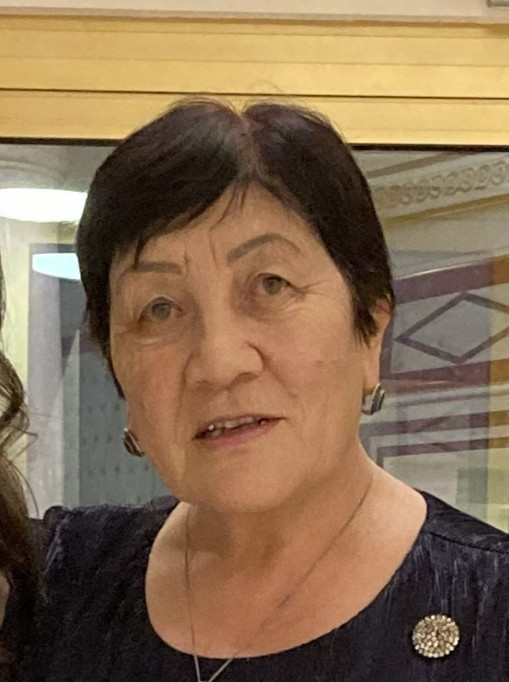
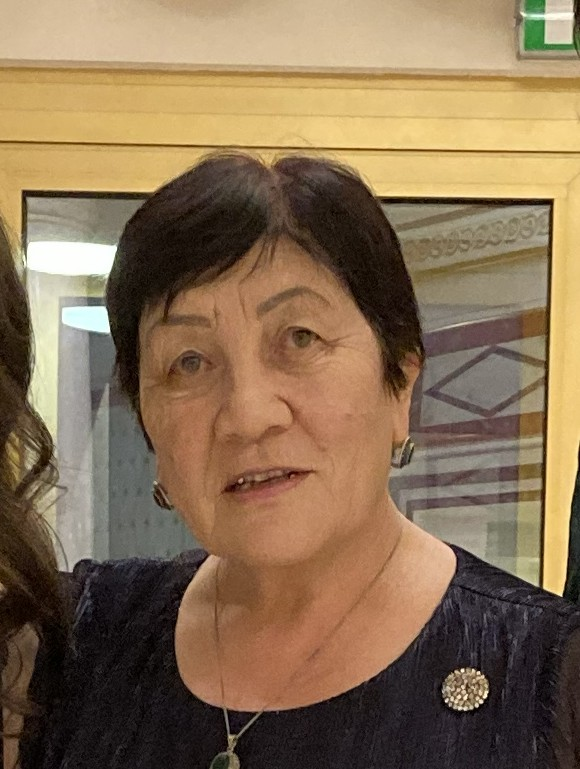
Initial commit

diff --git a/index.html b/index.html
@@ -107,7 +107,7 @@
             height: 100%;
             border-radius: 50%;
             object-fit: cover;
-            object-position: 40% 50%;
+            object-position: 50% 30%;
             border: 4px solid var(--cream);
         }
 